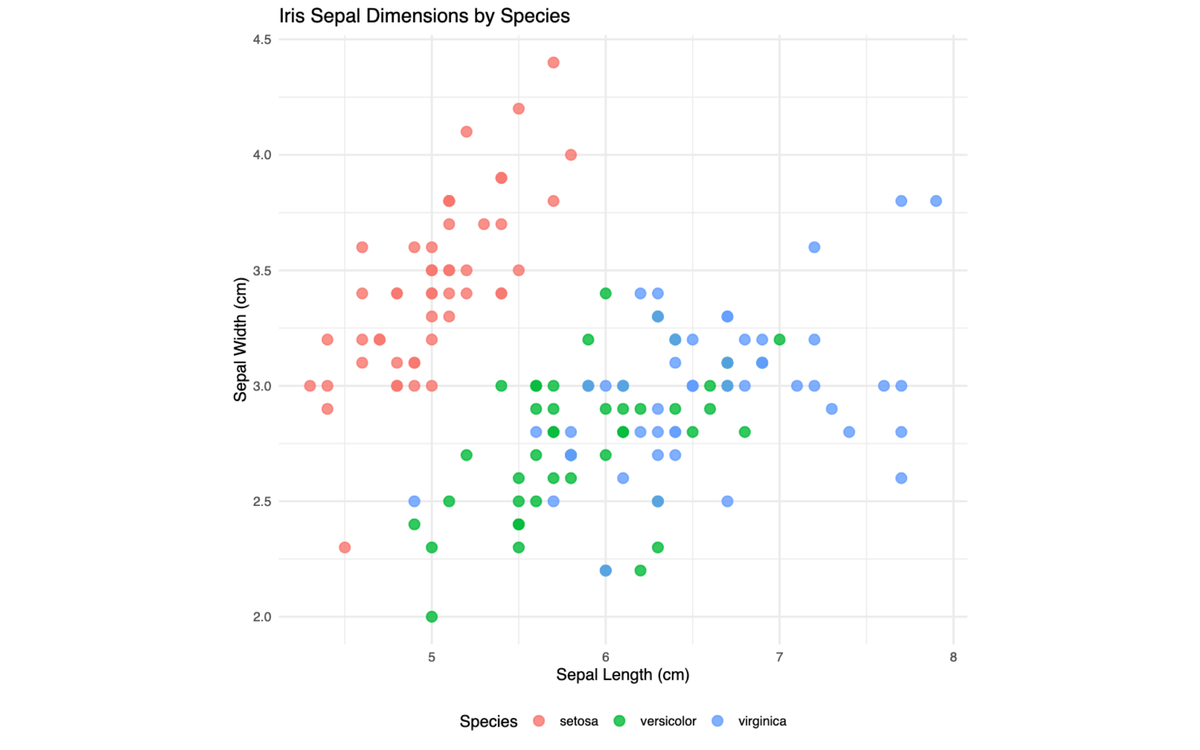
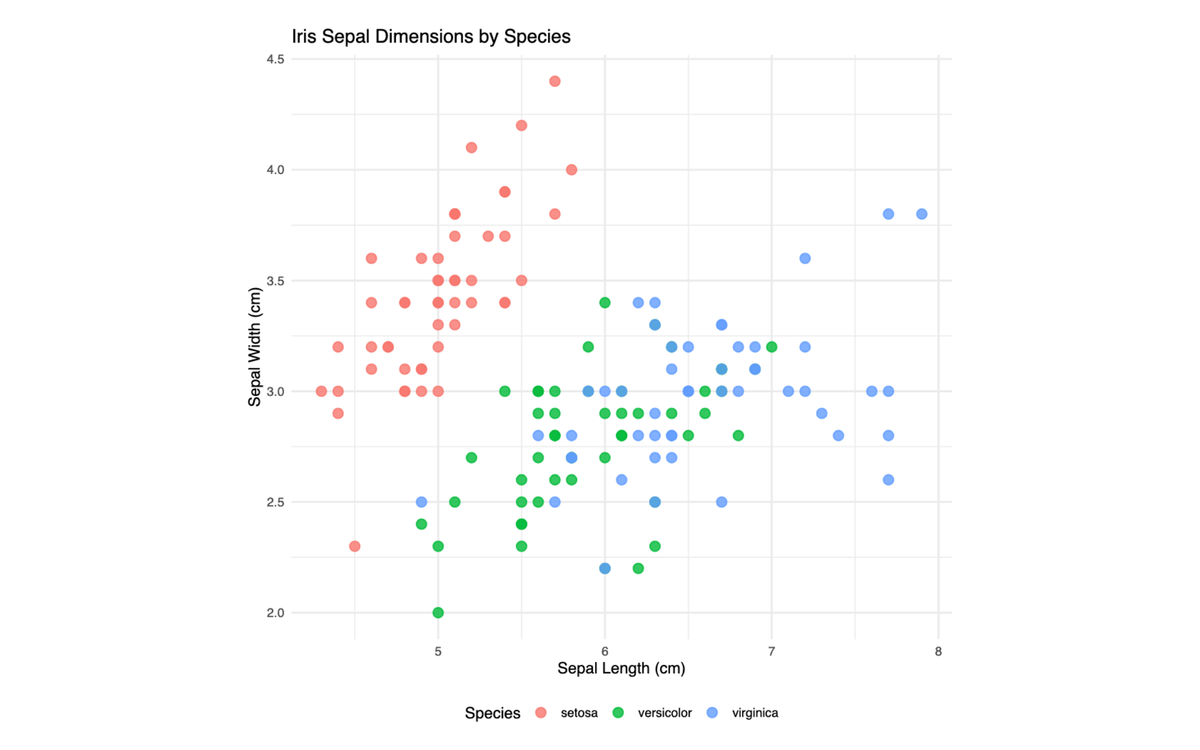
fix(projects): reframe thumbnails; audit every tile
Went through all 35 tiles rather than fixing them one at a time.

Root cause of most bad crops: fixed pixel coordinates aimed at pages that
move. TagOverflow, the qubism plot and the composers timeline all shifted
between runs. Those now measure what they want at capture time — a graph
group's rendered extent, or a rule picking the square plot among a
notebook's outputs (`pickRect`).

Framing:
- Letterboxed art is trimmed to its true bounds, centred, and given a
  margin, instead of running edge to edge from the top-left.
- Trimming applies only when letterboxing. With `cover` it changed the
  aspect ratio and cropped into the content, which had eaten the notebook
  text and the Quantum Game titles.
- Several artefacts that were being cropped to fill (the Sankey, the two
  tag graphs, the matrix decomposition, 3DFlu) now letterbox intact.

Content:
- Animated demos use their last frame: livelossplot showed empty axes
  before any epoch had run. Trypophobia keeps its first, its GIF ends
  mid-scroll.
- Map of Polish Composers joins the blank tiles. It is a few hundred faint
  white marks on black; at thumbnail size every crop read as broken.
- `skip` now deletes any previously generated image.

diff --git a/scripts/projectShots.ts b/scripts/projectShots.ts
@@ -33,6 +33,16 @@ export interface Shot {
   prepare?: string;
   /** Settle time after `prepare`, when it kicks off a render. */
   prepareWait?: number;
+  /** Which frame of an animation to use. Defaults to the last. */
+  frame?: 'first' | 'last';
+  /** Set false to keep surrounding whitespace instead of trimming to content. */
+  trim?: boolean;
+  /** Letterbox colour, for artefacts that are not on white. */
+  background?: string;
+  /** Inset around letterboxed art, in output pixels. */
+  margin?: number;
+  /** JS expression returning {x,y,width,height} — for regions no selector fits. */
+  pickRect?: string;
   /** No sensible image exists; render a blank tile. */
   skip?: boolean;
 }
@@ -75,6 +85,7 @@ export const SHOTS: Record<string, Shot> = {
     // still links to at the root now lives under old_sankey/.
     image:
       'https://raw.githubusercontent.com/tmikolajczyk/7kadencji/master/old_sankey/screenshot.png',
+    fit: 'contain',
   },
   'analiza-i-wizualizacja-danych-maturalnych-delab-uw': {
     image:
@@ -93,9 +104,12 @@ export const SHOTS: Record<string, Shot> = {
   '256-tags-of-stack-overflow-stack-exchange-network': {
     image:
       'https://raw.githubusercontent.com/stared/tag-graph-map-of-stackexchange/master/images/so_256tags_map_rc2_mid_res.png',
+    fit: 'contain',
   },
   'trypophobia-image-detector-browser-plugin-using-deep-learning': {
+    // The demo GIF ends mid-scroll; its opening frame shows the plugin at work.
     image: 'https://raw.githubusercontent.com/cytadela8/trypophobia/master/resources/poc.gif',
+    frame: 'first',
   },
 
   // --- Live pages, clipped to the artefact -------------------------------
@@ -118,7 +132,8 @@ export const SHOTS: Record<string, Shot> = {
     fit: 'contain',
   },
   'quesma-charts': {
-    clip: { x: 15, y: 344, width: 690, height: 431 },
+    selector: '.gallery-card',
+    fit: 'contain',
   },
   'virtual-lab-by-quantum-flytrap': {
     clip: { x: 280, y: 153, width: 880, height: 550 },
@@ -145,9 +160,12 @@ export const SHOTS: Record<string, Shot> = {
     // The project's gh-pages is TypeDoc API docs, and its browser-test.html
     // needs an uncommitted build; render the published bundle instead.
     url: 'fixture:tensor-diagrams.html',
+    // The formula label is a positioned div inside #diagram; trimming crops
+    // into it, so frame the element directly and leave the whitespace alone.
     selector: '#diagram',
-    fit: 'contain',
     pad: 40,
+    fit: 'contain',
+    trim: false,
   },
   'tree-of-reddit-sex-life': {
     // The Observable notebook does not render its chart headlessly; use the
@@ -157,20 +175,26 @@ export const SHOTS: Record<string, Shot> = {
   },
   'interactive-machine-learning-list': {
     selector: '.illustration',
+    fit: 'contain',
   },
   'map-of-polish-composers': {
-    clip: { x: 0, y: 74, width: 1280, height: 800 },
-    prepare: `document.querySelectorAll('.c-onboard__screen, .c-onboard').forEach(el => el.remove())`,
-    wait: 6000,
+    // A white-on-black timeline of a few hundred faint marks. At thumbnail size
+    // any crop reads as an empty black rectangle, so show nothing instead.
+    skip: true,
   },
   'quantum-game-with-photons': {
     clip: { x: 80, y: 0, width: 1280, height: 800 },
   },
   'matrix-factorization-viz': {
-    clip: { x: 8, y: 27, width: 1440, height: 900 },
+    // The SVG is 1600x1200 but the matrices occupy a band near the top, with a
+    // control panel to their left. Needs a wide viewport or they wrap.
+    viewport: { width: 1800, height: 1400 },
+    clip: { x: 300, y: 70, width: 1115, height: 365 },
+    fit: 'contain',
   },
   '3dflu-cent-university-of-warsaw': {
-    clip: { x: 700, y: 55, width: 600, height: 375 },
+    selector: '#serograph svg',
+    fit: 'contain',
   },
   'ritu-blah-blau-global-game-jam': {
     selector: '.field--name-field-game-screenshot img',
@@ -197,9 +221,17 @@ export const SHOTS: Record<string, Shot> = {
     fit: 'contain',
   },
   'qubism-in-qutip': {
-    // A colourful self-similar qubism plot. Picked by position rather than by
-    // size — the largest output in this notebook is a drab scatter grid.
-    clip: { x: 219, y: 10366, width: 425, height: 424 },
+    // The qubism plots are the square outputs; the notebook's biggest image is
+    // a drab scatter grid, so pick by shape rather than size or position.
+    pickRect: `
+      (() => {
+        const square = Array.from(document.querySelectorAll('img'))
+          .map((el) => el.getBoundingClientRect())
+          .filter((r) => r.width > 300 && Math.abs(r.width - r.height) / r.width < 0.15);
+        const r = square[square.length - 1];
+        return r && {x: r.x + scrollX, y: r.y + scrollY, width: r.width, height: r.height};
+      })()
+    `,
     fit: 'contain',
   },
   'thinking-in-tensors-writing-in-pytorch': {
@@ -207,7 +239,7 @@ export const SHOTS: Record<string, Shot> = {
     // an embedded joke. Use the maths itself: the derivative worked through in
     // the gradient-descent notebook.
     url: 'https://nbviewer.org/github/stared/thinking-in-tensors-writing-in-pytorch/blob/master/2%20Gradient%20Descent.ipynb',
-    clip: { x: 224, y: 900, width: 1041, height: 650 },
+    clip: { x: 190, y: 900, width: 1090, height: 681 },
   },
   offtopicarium: {
     selector: '#page-content img.image',
@@ -223,7 +255,10 @@ export const SHOTS: Record<string, Shot> = {
       document.querySelector('#go').click();
     `,
     selector: 'svg',
-    wait: 6000,
+    fit: 'contain',
+    wait: 8000,
+    // The chart is drawn from a fetched dataset, so give it room.
+    prepareWait: 8000,
   },
   'pulser-studio': {
     selector: 'img.wp-block-cover__image-background',

diff --git a/scripts/captureProjectScreenshots.ts b/scripts/captureProjectScreenshots.ts
@@ -9,7 +9,7 @@
 //   pnpm generate:screenshots tagoverflow  # redo named slugs
 //   pnpm generate:screenshots --probe <url>  # list clippable elements
 
-import { readFileSync, existsSync, mkdirSync, writeFileSync } from 'node:fs';
+import { readFileSync, existsSync, mkdirSync, writeFileSync, rmSync } from 'node:fs';
 import path from 'node:path';
 import sharp from 'sharp';
 import { Browser, sleep, type Rect } from './lib/cdp.ts';
@@ -48,16 +48,46 @@ const AUTO_CLIP = `
   })()
 `;
 
-async function normalise(input: Buffer, fit: 'cover' | 'contain'): Promise<Buffer> {
-  return sharp(input, { animated: false })
-    .resize(OUT_WIDTH, OUT_HEIGHT, {
+async function normalise(input: Buffer, shot: Shot): Promise<Buffer> {
+  const fit = shot.fit ?? 'cover';
+  const meta = await sharp(input).metadata();
+
+  // An animated demo's first frame is its empty starting state — a training
+  // plot before any epoch has run. The last frame is the finished result.
+  const pages = meta.pages ?? 1;
+  const page = shot.frame === 'first' || pages < 2 ? 0 : pages - 1;
+
+  // Letterbox colour: white suits most artefacts, but a dark visualisation
+  // needs a dark surround or the tile reads as broken.
+  const hex = (shot.background ?? '#ffffff').replace('#', '');
+  const bg = {
+    r: parseInt(hex.slice(0, 2), 16),
+    g: parseInt(hex.slice(2, 4), 16),
+    b: parseInt(hex.slice(4, 6), 16),
+  };
+
+  let pipeline = sharp(input, { page });
+  // Trim slack so the artefact is centred on its true bounds rather than on
+  // whatever whitespace the page included. Only safe when letterboxing:
+  // trimming changes the aspect ratio, and `cover` would then crop into the
+  // content to get back to 16:10.
+  const shouldTrim = shot.trim ?? fit === 'contain';
+  if (shouldTrim) pipeline = pipeline.trim({ threshold: 12 });
+
+  // Letterboxed art is trimmed to its exact ink, so give it a margin instead of
+  // running edge to edge.
+  const m = fit === 'contain' ? (shot.margin ?? 28) : 0;
+
+  return pipeline
+    .resize(OUT_WIDTH - 2 * m, OUT_HEIGHT - 2 * m, {
       fit,
       // Cropping keeps the top, where a screenshot's subject usually is.
-      // Letterboxing centres, so a wide artefact sits in the middle of the tile
-      // rather than hard against its top edge.
+      // Letterboxing centres, so the artefact sits in the middle of the tile.
       position: fit === 'contain' ? 'center' : 'top',
-      background: { r: 255, g: 255, b: 255, alpha: 1 },
+      background: { ...bg, alpha: 1 },
     })
+    .extend({ top: m, bottom: m, left: m, right: m, background: bg })
+    .flatten({ background: bg })
     .png()
     .toBuffer();
 }
@@ -113,6 +143,10 @@ async function capture(browser: Browser, project: Project, shot: Shot): Promise<
     const pad = shot.pad ?? 0;
     const measure = async (): Promise<Rect | null> => {
       let rect: Rect | null = shot.clip ?? null;
+      if (!rect && shot.pickRect) {
+        rect = await page.evaluate<Rect | null>(shot.pickRect);
+        if (!rect) throw new Error('pickRect matched nothing');
+      }
       if (!rect && shot.selector) {
         rect = await page.rectOf(shot.selector);
         if (!rect) throw new Error(`selector not found: ${shot.selector}`);
@@ -167,12 +201,15 @@ try {
 
       const shot = SHOTS[slug] ?? {};
       if (shot.skip) {
+        // Remove a previously generated file, so flipping a project to `skip`
+        // actually clears its tile.
+        if (existsSync(outPath)) rmSync(outPath);
         console.log(`--   ${slug} (no meaningful visual)`);
         continue;
       }
       try {
         const raw = await capture(browser, project, shot);
-        writeFileSync(outPath, await normalise(raw, shot.fit ?? 'cover'));
+        writeFileSync(outPath, await normalise(raw, shot));
         console.log(`ok   ${slug}`);
       } catch (err) {
         failures.push(`${slug}: ${(err as Error).message}`);
